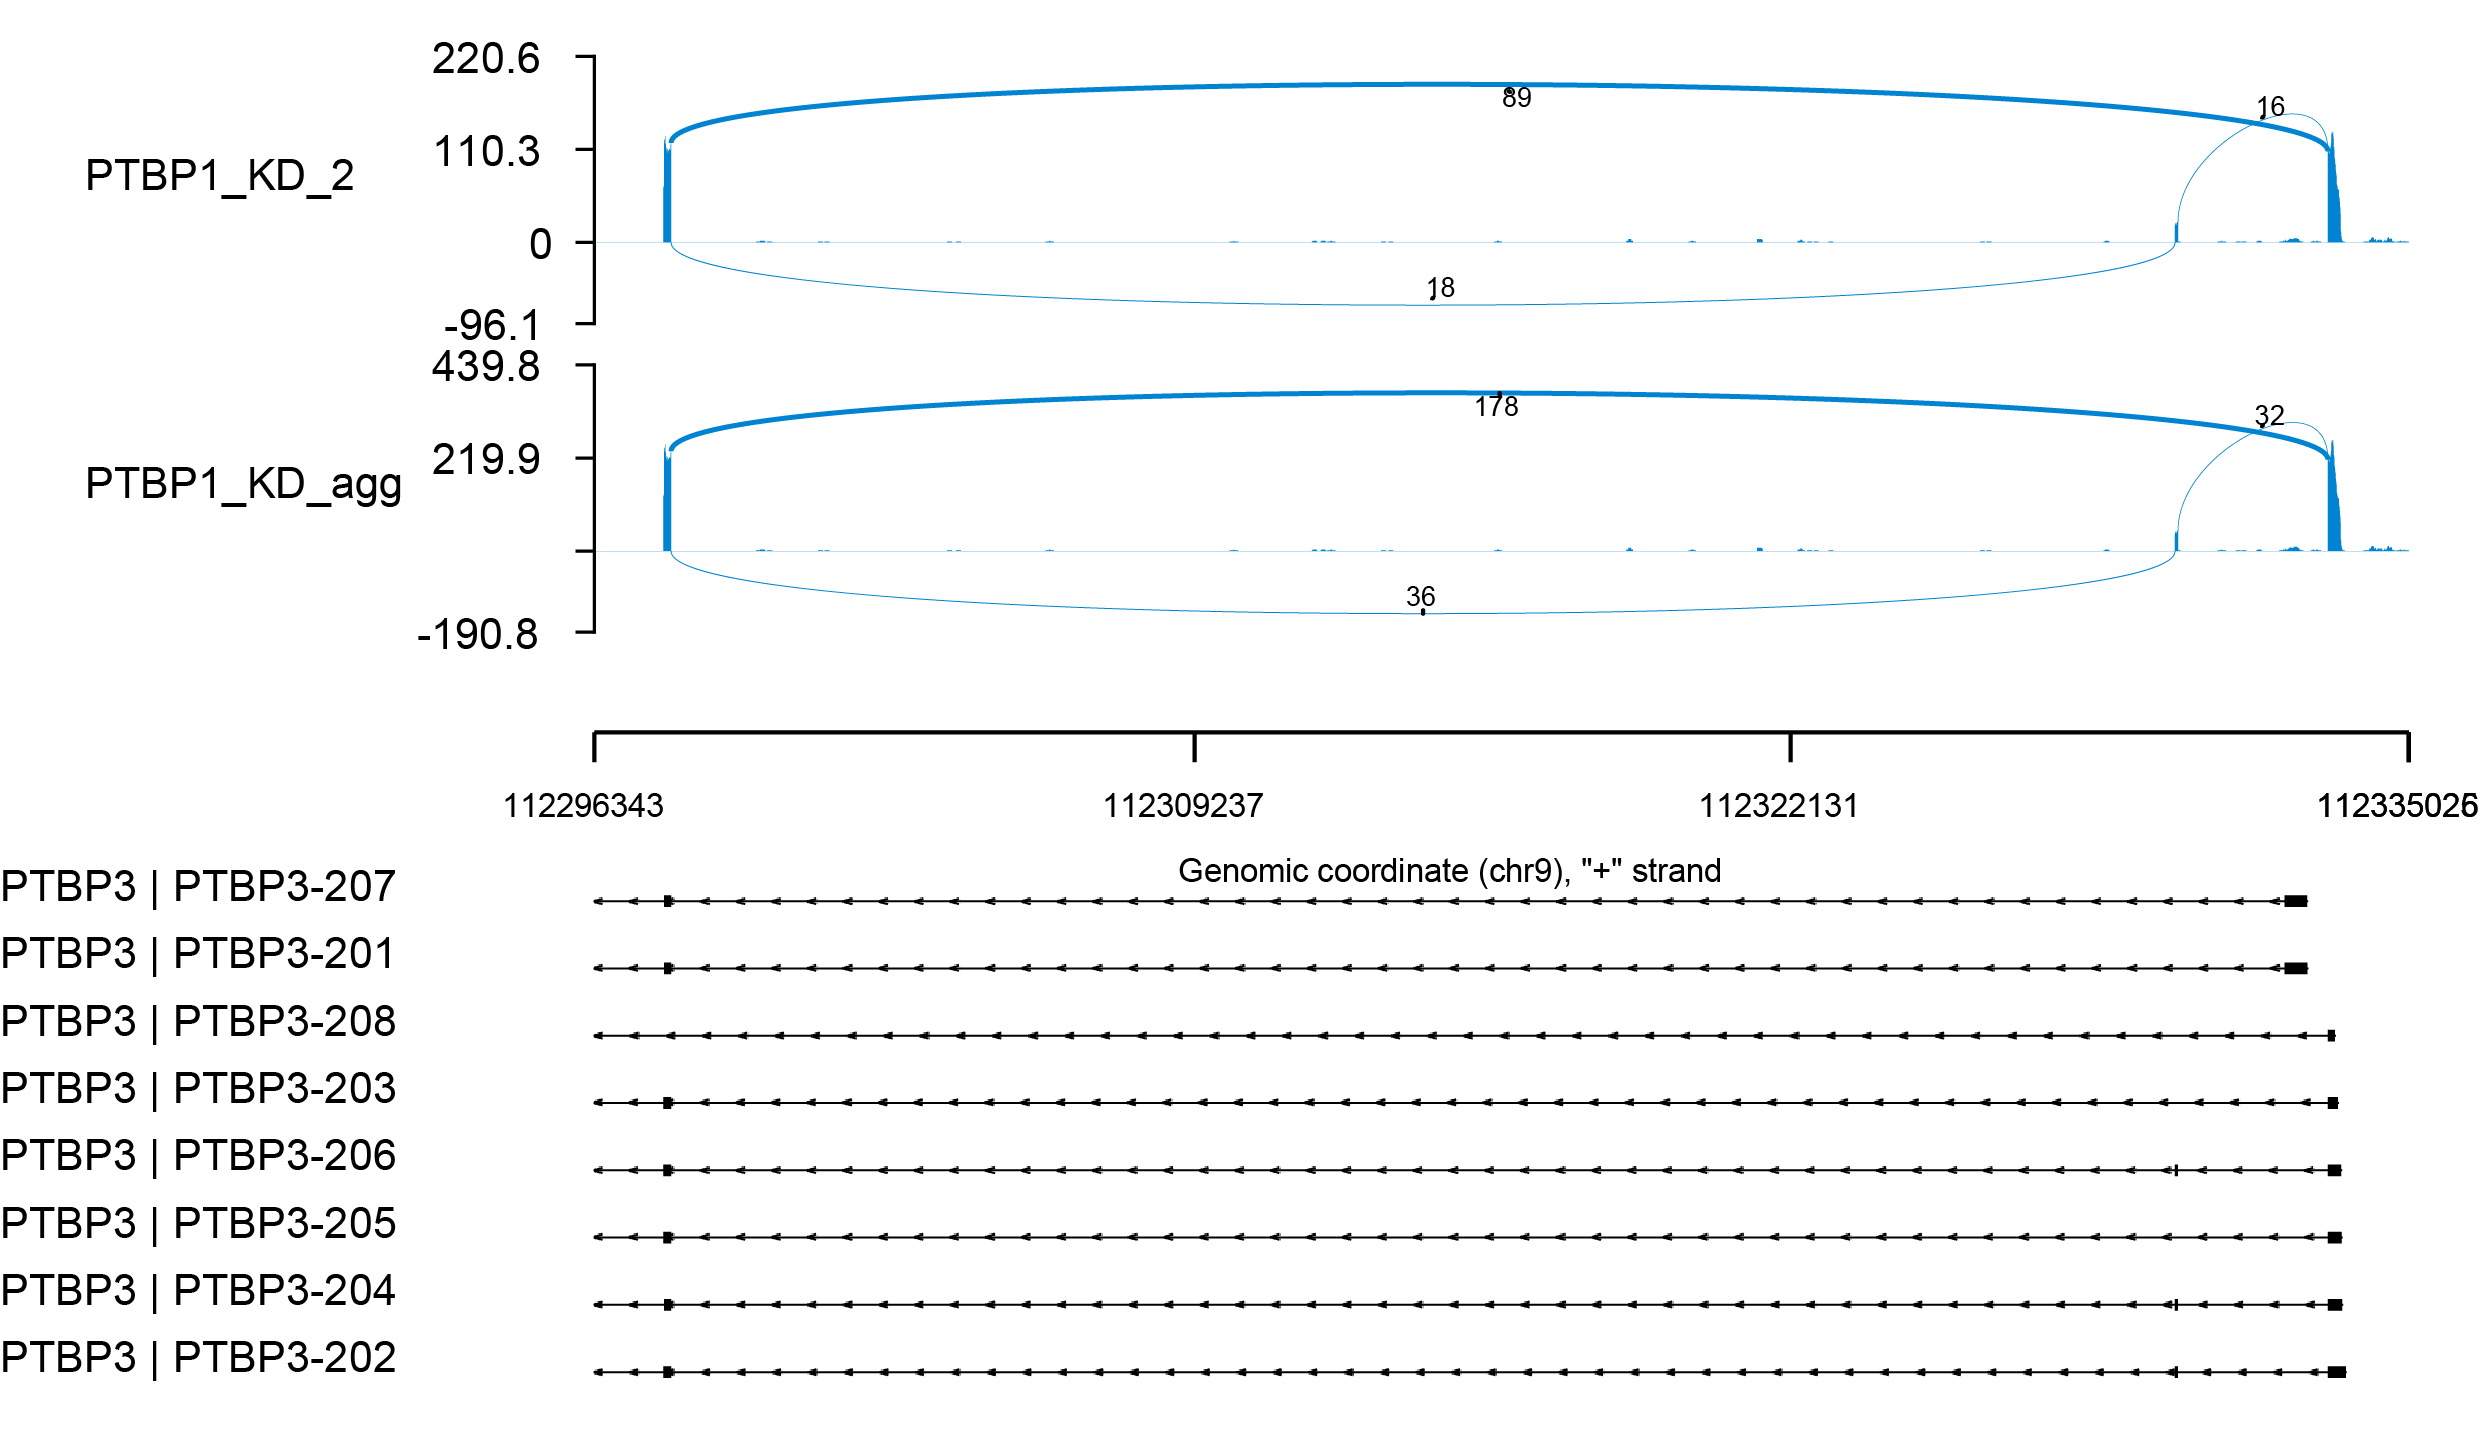
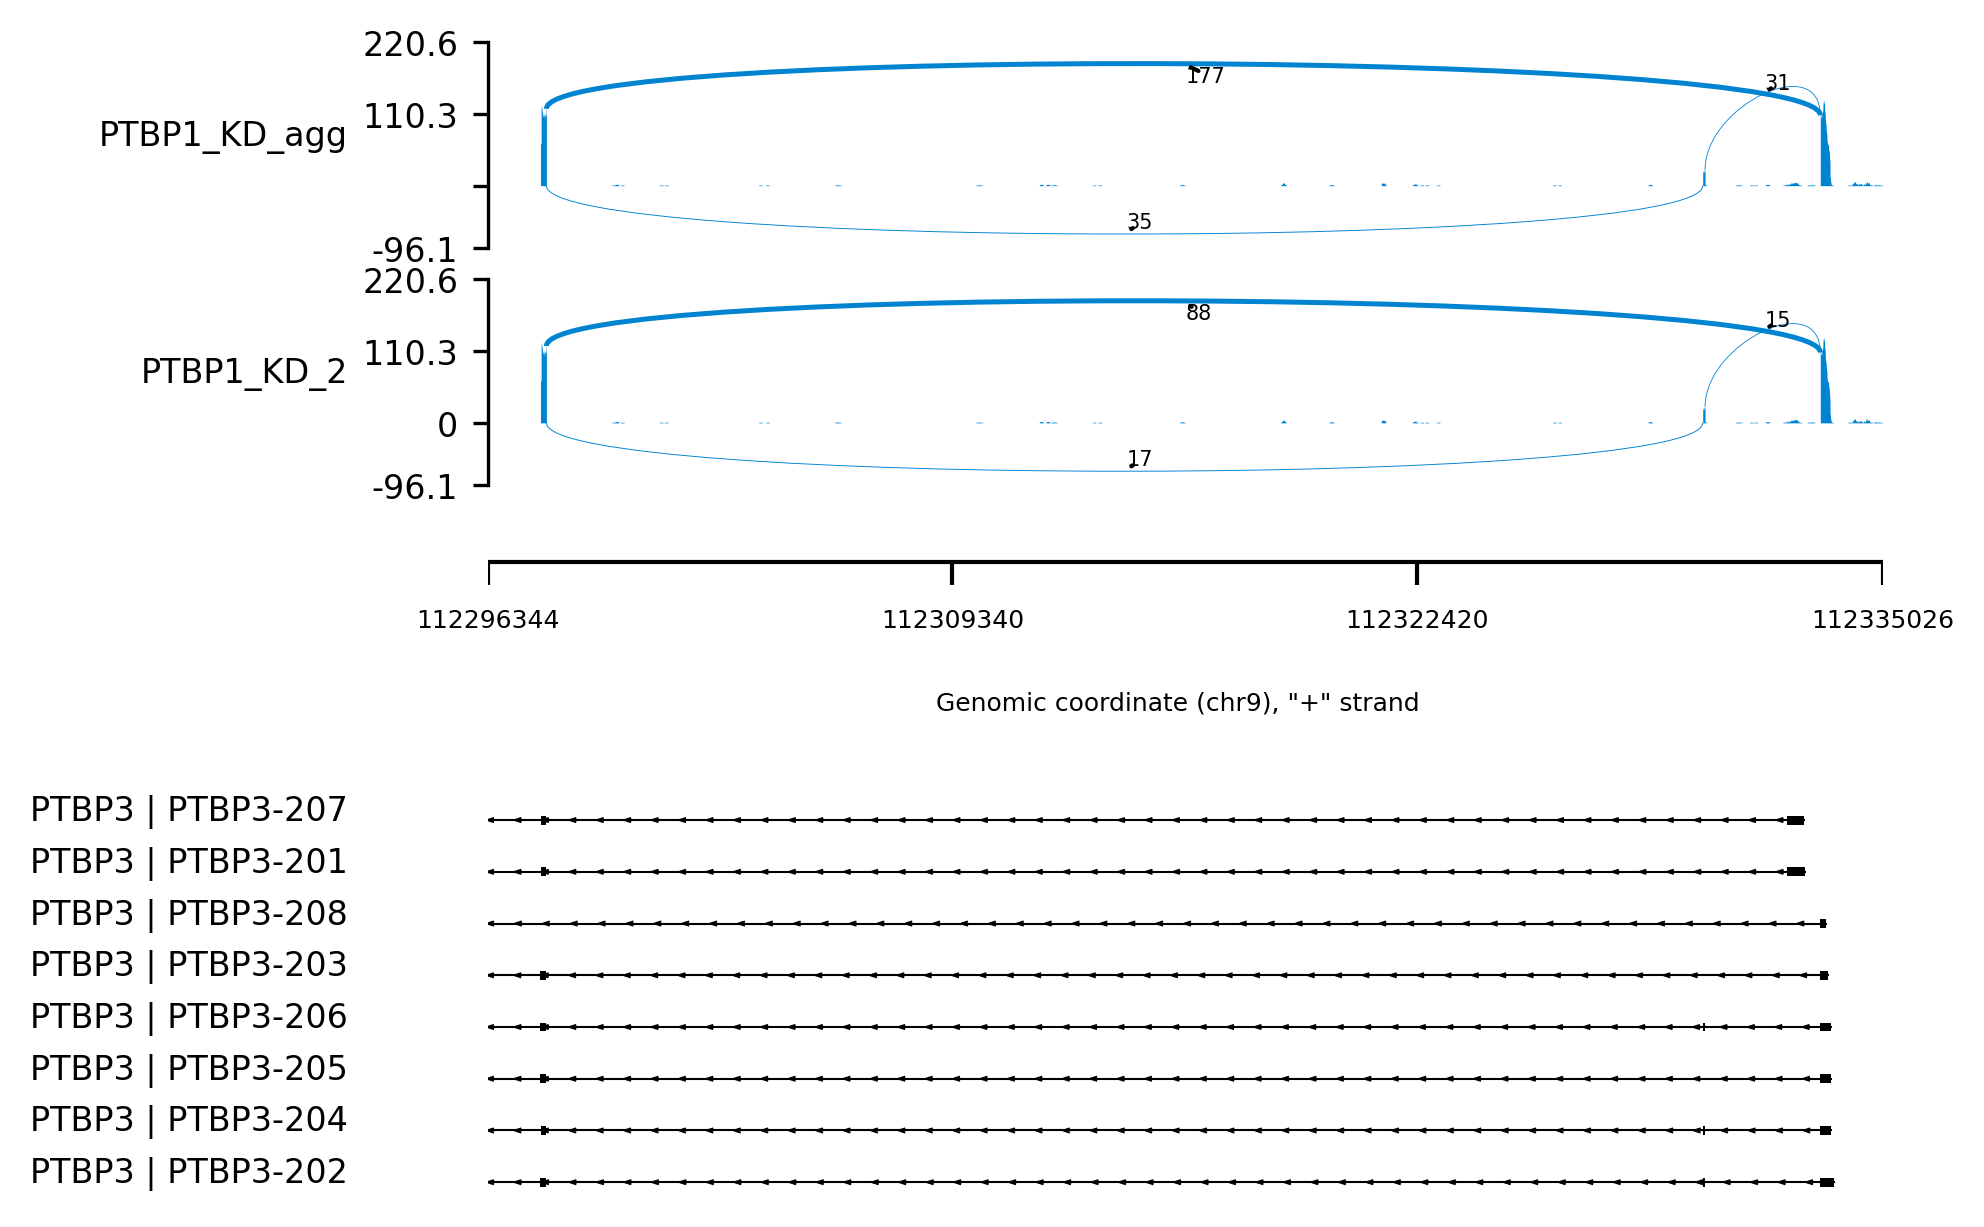
fix bugs in ReadDepth and update documents

diff --git a/trackplot/file/Reference.py b/trackplot/file/Reference.py
@@ -335,18 +335,14 @@ class Reference(File):
                     keep_original=True
                 )
             except OSError as err:
-                logger.error(err)
-                logger.error("Guess gtf needs to be sorted")
+                logger.warning(f"Guess gtf needs to be sorted: {err}")
 
                 sorted_gtf = re.sub(r"\.gtf(.gz)?$", "", input_gtf) + ".sorted.gtf.gz"
                 if os.path.exists(sorted_gtf) and os.path.exists(sorted_gtf + ".tbi"):
                     return sorted_gtf
 
                 cls.sort_gtf(input_gtf, sorted_gtf)
-                pysam.tabix_index(
-                    sorted_gtf, preset="gff",
-                    force=True, keep_original=True
-                )
+                pysam.tabix_index(sorted_gtf, preset="gff", force=True, keep_original=True)
                 return sorted_gtf
         elif os.path.getctime(output_gtf) < os.path.getctime(output_gtf):
             logger.info("the tbi index is older than the gtf file")
@@ -442,11 +438,9 @@ class Reference(File):
                 )
                 transcripts[t] = transcripts.get(t, 0) + 1
         except IOError as err:
-            logger.error('There is no .bam file at {0}'.format(self.path))
-            logger.error(err)
+            logger.warning(f"There is no .bam file at {self.path}: {err}")
         except ValueError as err:
-            logger.error(self.path)
-            logger.error(err)
+            logger.warning(f"{self.path}: {err}")
 
         return sorted([x for x, y in transcripts.items() if y > threshold_of_reads])
 
@@ -502,11 +496,9 @@ class Reference(File):
                 transcripts.append(read)
 
         except IOError as err:
-            logger.error('There is no .bed file at {0}'.format(self.path))
-            logger.error(err)
+            logger.warning(f"There is no .bed file at {self.path}: {err}")
         except ValueError as err:
-            logger.error(self.path)
-            logger.error(err)
+            logger.warning(f"{self.path}: {err}")
         return transcripts
 
     def load(self, region: GenomicLoci, threshold_of_reads: int = 0, **kwargs):

diff --git a/trackplot/base/ReadDepth.py b/trackplot/base/ReadDepth.py
@@ -57,11 +57,15 @@ class ReadDepth(object):
 
     @property
     def plus(self) -> Optional[np.array]:
-        return self._plus_ / self._number_of_merged_
+        if self._plus_ is not None and self._number_of_merged_ > 0:
+            return self._plus_ / self._number_of_merged_
+        return self._plus_
 
     @property
     def minus(self) -> Optional[np.array]:
-        return self._minus_ / self._number_of_merged_
+        if self._minus_ is not None and self._number_of_merged_ > 0:
+            return self._minus_ / self._number_of_merged_
+        return self._minus_
 
     @property
     def wiggle(self) -> np.array:

diff --git a/trackplot/cli.py b/trackplot/cli.py
@@ -21,7 +21,7 @@ from trackplot.conf.config import CLUSTERING_METHOD, COLORS, COLORMAP, DISTANCE_
 from trackplot.file.ATAC import ATAC
 from trackplot.plot import Plot
 
-__version__ = "0.2.2"
+__version__ = "0.2.3"
 __author__ = "ygidtu & Ran Zhou"
 __email__ = "ygidtu@gmail.com"
 

diff --git a/setup.py b/setup.py
@@ -2,7 +2,7 @@ import os
 from configparser import ConfigParser
 from setuptools import setup, find_packages
 
-__version__ = "0.2.2"
+__version__ = "0.2.3"
 __author__ = "ygidtu & Ran Zhou"
 __email__ = "ygidtu@gmail.com"
 

diff --git a/README.md b/README.md
@@ -203,5 +203,5 @@ contact [Yiming Zhang](https://github.com/ygidtu) and
 
 If you use Sashimi.py in your publication, please cite Sashimi.py by
 
-[Zhang et al. Sashimi.py: a flexible toolkit for combinatorial analysis of genomic data. bioRxiv 2022.11.02.514803.](https://www.biorxiv.org/content/10.1101/2022.11.02.514803v1)
+[Zhang et al. bioRxiv, 2022.11.02.514803.](https://www.biorxiv.org/content/10.1101/2022.11.02.514803v1)
 

diff --git a/docs/command.md b/docs/command.md
@@ -579,9 +579,9 @@ aria2c -x 16 http://hgdownload.cse.ucsc.edu/goldenpath/hg38/phastCons470way/hg38
 Here is the configure file,
 ```
 # we use third column to group the different data to aggregate datasets.
-ENCFF854PFR.bam	bam	PTBP1_KD_2	#0084d1	frf
 ENCFF125RUG.bam	bam	PTBP1_KD_agg	#0084d1	frf
 ENCFF854PFR.bam	bam	PTBP1_KD_agg	#0084d1	frf
+ENCFF854PFR.bam	bam	PTBP1_KD_2	#0084d1	frf
 ```
 
 ```bash
